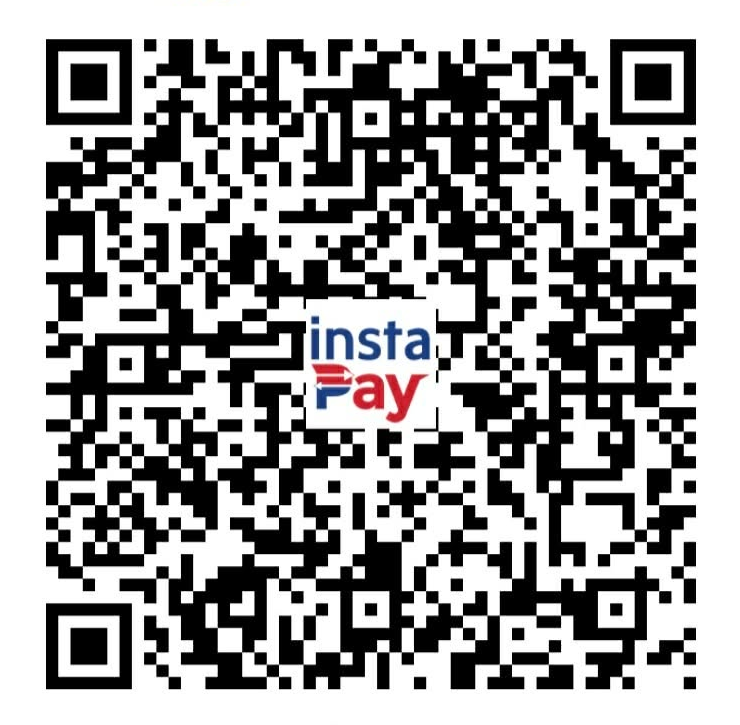
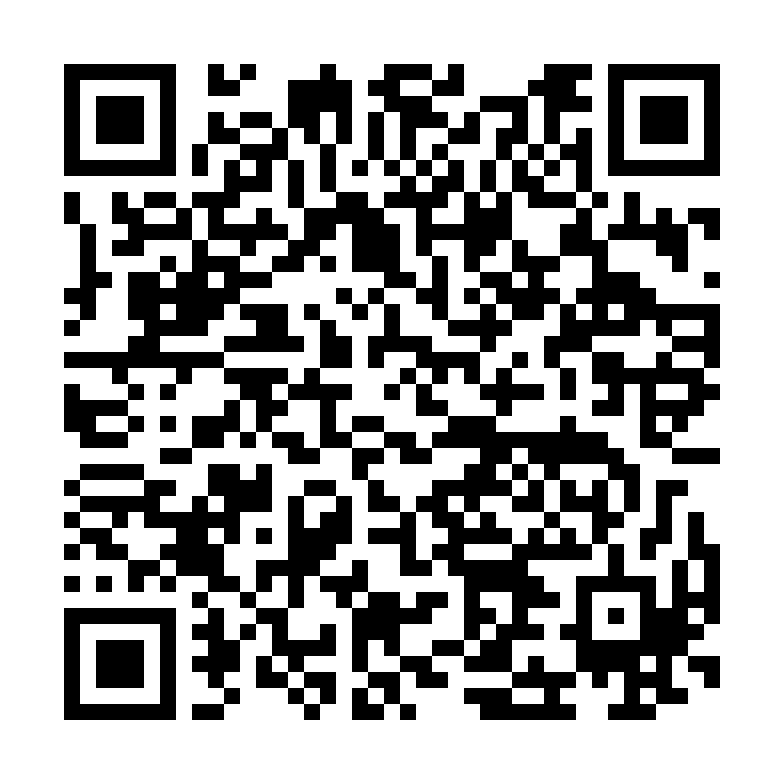
Show the payment QR full screen for screenshots in Messenger's browser
In-app browsers cannot download files, so Save QR and Share are hidden
there and the customer screenshots a full-screen QR instead. Both QR
images are redrawn from the same decoded payload so screenshots scan.

diff --git a/site/src/components/Checkout.tsx b/site/src/components/Checkout.tsx
@@ -1,6 +1,7 @@
-import { ArrowLeft, Check, CheckCircle, CopySimple, DownloadSimple, ImageSquare, MessengerLogo, Phone, ShareNetwork, WarningCircle } from '@phosphor-icons/react'
+import { ArrowLeft, ArrowsOut, Check, CheckCircle, CopySimple, DownloadSimple, ImageSquare, MessengerLogo, Phone, ShareNetwork, WarningCircle } from '@phosphor-icons/react'
 import { AnimatePresence, motion, useReducedMotion } from 'motion/react'
 import { useEffect, useMemo, useRef, useState, type ChangeEvent } from 'react'
+import { createPortal } from 'react-dom'
 import { BUSINESS, PAYMENTS, PICKUP_ID, TUPPERWARE, type PayChannel } from '../data/business'
 import { asset } from '../lib/asset'
 import { useMenu } from '../lib/menu'
@@ -350,6 +351,11 @@ export function Checkout({ open, onClose }: { open: boolean; onClose: () => void
   )
 }
 
+// Facebook, Messenger and Instagram open links in their own built-in browser.
+const IN_APP_BROWSER = typeof navigator !== 'undefined' && /FBAN|FBAV|FB_IAB|Messenger|Instagram/i.test(navigator.userAgent)
+
+const qrButton = 'inline-flex h-12 cursor-pointer items-center justify-center gap-2 rounded-[14px] bg-leaf/10 px-3 text-sm font-semibold text-leaf-700 transition-colors hover:bg-leaf/15'
+
 function PayCard({ pay, amount }: { pay: PayChannel; amount: number }) {
   const [copied, setCopied] = useState(false)
   const copy = async () => {
@@ -377,6 +383,18 @@ function PayCard({ pay, amount }: { pay: PayChannel; amount: number }) {
       alive = false
     }
   }, [pay.id, pay.qr])
+  const [big, setBig] = useState(false)
+  useEffect(() => {
+    if (!big) return
+    // Escape closes only the QR, not the whole checkout underneath.
+    const onKey = (e: KeyboardEvent) => {
+      if (e.key !== 'Escape') return
+      e.stopImmediatePropagation()
+      setBig(false)
+    }
+    window.addEventListener('keydown', onKey, true)
+    return () => window.removeEventListener('keydown', onKey, true)
+  }, [big])
   const shareQr = () => {
     if (!qrFile) return
     navigator.share({ files: [qrFile], title: `${pay.bank} QR, Food Corner` }).catch(() => {
@@ -399,36 +417,58 @@ function PayCard({ pay, amount }: { pay: PayChannel; amount: number }) {
       </ol>
       <div className="mt-4 border-t border-ink/10 pt-4">
         <p className="text-center text-sm font-semibold">Or pay with this InstaPay QR</p>
-        <img src={asset(pay.qr)} alt={`${pay.bank} InstaPay QR code for ${pay.accountName}`} className="mx-auto mt-3 w-full max-w-64 rounded-[10px]" />
-        <div className={`mt-3 grid gap-2 ${qrFile ? 'grid-cols-2' : ''}`}>
-          <a
-            href={asset(pay.qr)}
-            download={`food-corner-${pay.id}-qr.png`}
-            className="inline-flex h-12 items-center justify-center gap-2 rounded-[14px] bg-leaf/10 px-3 text-sm font-semibold text-leaf-700 transition-colors hover:bg-leaf/15"
-          >
-            <DownloadSimple size={18} weight="bold" /> Save QR
-          </a>
-          {qrFile && (
-            <button
-              type="button"
-              onClick={shareQr}
-              className="inline-flex h-12 cursor-pointer items-center justify-center gap-2 rounded-[14px] bg-leaf/10 px-3 text-sm font-semibold text-leaf-700 transition-colors hover:bg-leaf/15"
-            >
-              <ShareNetwork size={18} weight="bold" /> Share to app
-            </button>
+        <button type="button" onClick={() => setBig(true)} aria-label="Show the QR code full screen" className="mx-auto mt-3 block w-full max-w-64 cursor-pointer">
+          <img src={asset(pay.qr)} alt={`${pay.bank} InstaPay QR code for ${pay.accountName}`} className="w-full rounded-[10px]" />
+        </button>
+        <div className="mt-3 grid gap-2">
+          <button type="button" onClick={() => setBig(true)} className={qrButton}>
+            <ArrowsOut size={18} weight="bold" /> Show QR full screen
+          </button>
+          {/* Facebook and Messenger's built-in browser cannot download files, so Save and Share are left out there. */}
+          {!IN_APP_BROWSER && (
+            <div className={`grid gap-2 ${qrFile ? 'grid-cols-2' : ''}`}>
+              <a href={asset(pay.qr)} download={`food-corner-${pay.id}-qr.png`} className={qrButton}>
+                <DownloadSimple size={18} weight="bold" /> Save QR
+              </a>
+              {qrFile && (
+                <button type="button" onClick={shareQr} className={qrButton}>
+                  <ShareNetwork size={18} weight="bold" /> Share to app
+                </button>
+              )}
+            </div>
           )}
         </div>
         <p className="mt-3 text-sm font-semibold">Paying from this same phone?</p>
         <ol className="mt-1 list-decimal space-y-1 pl-5 text-sm text-ink-soft">
-          <li>Tap <b className="text-ink">Save QR</b>.</li>
+          <li>
+            Tap <b className="text-ink">Show QR full screen</b> and take a <b className="text-ink">screenshot</b>.
+          </li>
           <li>
             Open your bank or e-wallet app and tap <b className="text-ink">Scan QR</b> or <b className="text-ink">Pay QR</b>.
           </li>
           <li>
-            Tap <b className="text-ink">Upload</b> or the <b className="text-ink">gallery</b> icon and choose the saved QR, then send <span className="num font-semibold text-ink">{peso(amount)}</span>.
+            Tap <b className="text-ink">Upload</b> or the <b className="text-ink">gallery</b> icon and choose the screenshot, then send <span className="num font-semibold text-ink">{peso(amount)}</span>.
           </li>
         </ol>
       </div>
+      {big &&
+        createPortal(
+          <div role="dialog" aria-modal="true" aria-label={`${pay.bank} QR code, full screen`} className="fixed inset-0 z-[90] flex flex-col items-center justify-center overflow-y-auto bg-white px-5 py-6 text-center text-ink">
+            <p className="display text-2xl font-extrabold">Take a screenshot now</p>
+            <p className="mt-1 text-sm text-ink-soft">Then open your bank app, tap Scan QR and upload this screenshot.</p>
+            <img src={asset(pay.qr)} alt={`${pay.bank} InstaPay QR code for ${pay.accountName}`} className="mt-4 w-full max-w-[340px]" />
+            <p className="mt-3 font-semibold">
+              {pay.bank} · {pay.accountName}
+            </p>
+            <p className="text-sm text-ink-soft">
+              Amount to send: <span className="num font-bold text-ink">{peso(amount)}</span>
+            </p>
+            <Button className="mt-5 w-full max-w-[340px]" size="lg" onClick={() => setBig(false)} autoFocus>
+              Done, back to my order
+            </Button>
+          </div>,
+          document.body,
+        )}
     </div>
   )
 }
